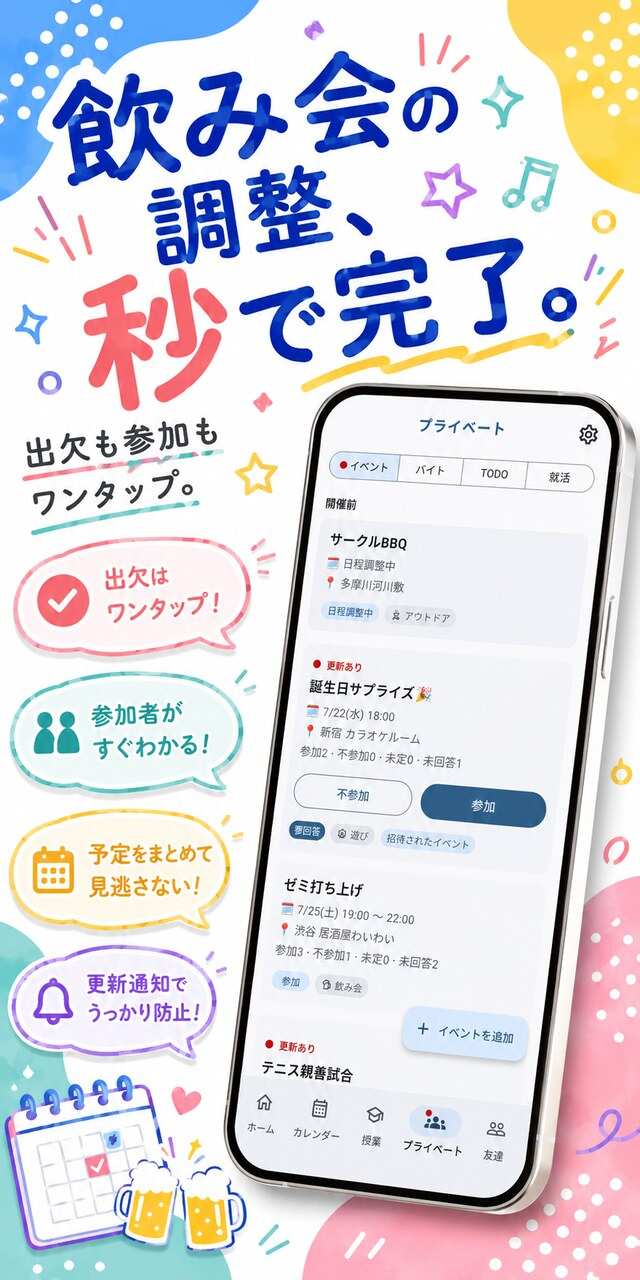
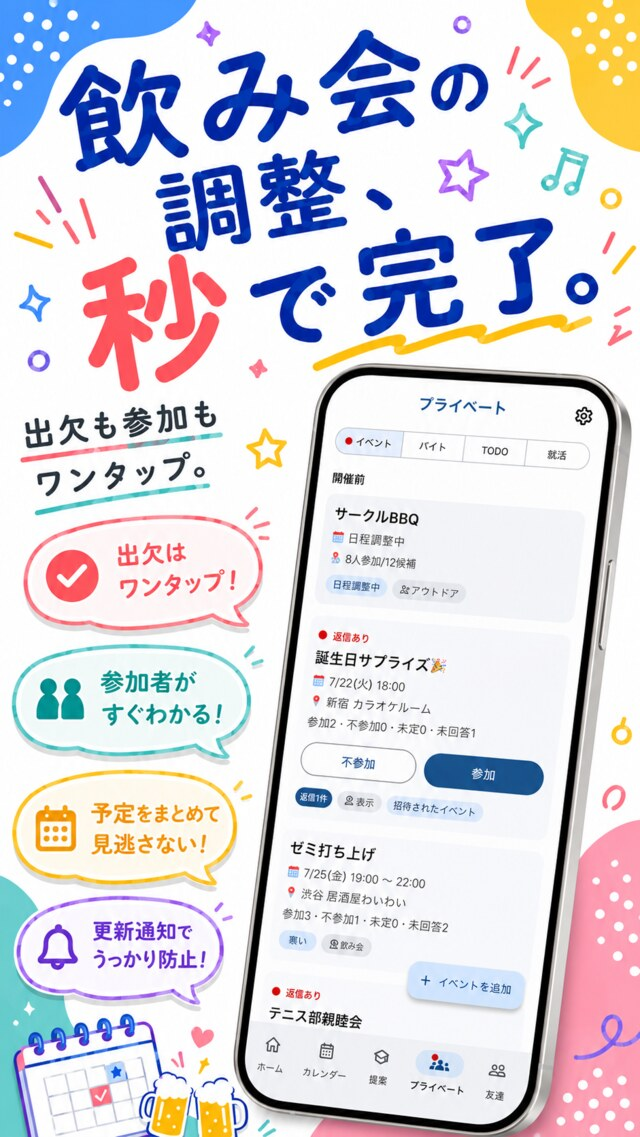
ちょい差し替え

diff --git a/apps/mio/index.html b/apps/mio/index.html
@@ -35,7 +35,9 @@
     <!--
       MIO のランディングページ（アプリのホームページとして OAuth 同意画面等に登録するページ）。
       ・プライバシーポリシーへのリンクはヘッダー / 本文 / フッターに明示的に設置すること（審査要件）。
-      ・img/poster-01〜14.jpg は装飾済みストア用ポスター（ヒーロー/機能/ギャラリーで使用）。
+      ・img/poster-01〜14.jpg は装飾済みストア用ポスター（ヒーロー/機能セクションで使用）。
+      ・img/shots/*.jpg はスクリーンショットギャラリー用の素画面キャプチャ（装飾なし）。
+        元画像は store/screenshots/source/*.png を長辺960px・JPGに最適化したもの。
         旧仮画像 img/ph-*.svg は未使用（残置）。
       ・シェア用のシンプルなDLページは ./download.html にバックアップとして残してあります。
     -->
@@ -108,10 +110,10 @@
 
           <div class="app-card lp-feature">
             <div class="lp-feature-shot lp-feature-poster">
-              <img src="./img/poster-12.jpg" alt="出欠と卒業単位画面" loading="lazy" />
+              <img src="./img/poster-12.jpg" alt="出欠画面" loading="lazy" />
             </div>
-            <h3>✅ 出欠と卒業単位</h3>
-            <p>出席・欠席・遅刻を記録。出席率も、卒業に必要な単位の達成状況も自動で集計します。</p>
+            <h3>✅ 出欠</h3>
+            <p>出席・欠席・遅刻をワンタップで記録。出席率も「あと何回休める？」もひと目でわかります。</p>
           </div>
 
           <div class="app-card lp-feature">
@@ -137,6 +139,54 @@
             <h3>🧾 割り勘</h3>
             <p>イベントの費用を1円まで自動で精算。誰が誰にいくら払うかもすぐわかります。</p>
           </div>
+
+          <div class="app-card lp-feature">
+            <div class="lp-feature-shot lp-feature-poster">
+              <img src="./img/poster-04.jpg" alt="週間カレンダー画面" loading="lazy" />
+            </div>
+            <h3>🔥 今週の忙しさ</h3>
+            <p>今週の予定・課題・バイトをまとめて表示。週の忙しさがひと目で見わたせます。</p>
+          </div>
+
+          <div class="app-card lp-feature">
+            <div class="lp-feature-shot lp-feature-poster">
+              <img src="./img/poster-14.jpg" alt="日程調整画面" loading="lazy" />
+            </div>
+            <h3>🗳 日程調整</h3>
+            <p>みんなの空いてる日を○×で集めるだけ。いちばん集まれる日が自動でわかります。</p>
+          </div>
+
+          <div class="app-card lp-feature">
+            <div class="lp-feature-shot lp-feature-poster">
+              <img src="./img/poster-06.jpg" alt="イベント画面" loading="lazy" />
+            </div>
+            <h3>🎉 飲み会・イベント</h3>
+            <p>飲み会も遊びも、日程・出欠・場所をまとめて調整。幹事の段取りがサクッと片づきます。</p>
+          </div>
+
+          <div class="app-card lp-feature">
+            <div class="lp-feature-shot lp-feature-poster">
+              <img src="./img/poster-08.jpg" alt="卒業単位画面" loading="lazy" />
+            </div>
+            <h3>🎓 卒業単位</h3>
+            <p>取得した単位と、卒業までに足りない単位を自動集計。「卒業やばい」をいつでも確認できます。</p>
+          </div>
+
+          <div class="app-card lp-feature">
+            <div class="lp-feature-shot lp-feature-poster">
+              <img src="./img/poster-09.jpg" alt="就活画面" loading="lazy" />
+            </div>
+            <h3>💼 就活</h3>
+            <p>エントリーした企業と選考状況をまとめて管理。「次いつ面接だっけ」をなくします。</p>
+          </div>
+
+          <div class="app-card lp-feature">
+            <div class="lp-feature-shot lp-feature-poster">
+              <img src="./img/poster-10.jpg" alt="日記画面" loading="lazy" />
+            </div>
+            <h3>📖 日記</h3>
+            <p>今日の気持ちをひとことで記録。ムードだけでも残せる、かんたん日記です。</p>
+          </div>
                 </div>
       </div>
     </section>
@@ -148,13 +198,26 @@
         <p class="section-lead">実際の画面をチェック。横にスワイプできます。</p>
       </div>
       <div class="lp-shots" aria-label="アプリのスクリーンショット一覧">
-        <img src="./img/poster-02.jpg" alt="ホーム画面" loading="lazy" />
-        <img src="./img/poster-04.jpg" alt="週間カレンダー画面" loading="lazy" />
-        <img src="./img/poster-06.jpg" alt="イベント画面" loading="lazy" />
-        <img src="./img/poster-08.jpg" alt="卒業単位画面" loading="lazy" />
-        <img src="./img/poster-09.jpg" alt="就活画面" loading="lazy" />
-        <img src="./img/poster-10.jpg" alt="日記画面" loading="lazy" />
-        <img src="./img/poster-14.jpg" alt="日程調整画面" loading="lazy" />
+        <img src="./img/shots/01_current.jpg" alt="ホーム画面" loading="lazy" />
+        <img src="./img/shots/02_calendar.jpg" alt="月間カレンダー画面" loading="lazy" />
+        <img src="./img/shots/03_calendar_week.jpg" alt="週間カレンダー画面" loading="lazy" />
+        <img src="./img/shots/04_calendar_list.jpg" alt="予定リスト画面" loading="lazy" />
+        <img src="./img/shots/05_classes.jpg" alt="時間割画面" loading="lazy" />
+        <img src="./img/shots/06_courses.jpg" alt="出欠・単位画面" loading="lazy" />
+        <img src="./img/shots/07_assignments.jpg" alt="課題画面" loading="lazy" />
+        <img src="./img/shots/08_exams.jpg" alt="試験画面" loading="lazy" />
+        <img src="./img/shots/09_credits.jpg" alt="卒業単位画面" loading="lazy" />
+        <img src="./img/shots/11_private.jpg" alt="イベント一覧画面" loading="lazy" />
+        <img src="./img/shots/12_baito.jpg" alt="バイト画面" loading="lazy" />
+        <img src="./img/shots/13_todo.jpg" alt="TODO画面" loading="lazy" />
+        <img src="./img/shots/14_shukatsu.jpg" alt="就活画面" loading="lazy" />
+        <img src="./img/shots/15_event_datecoord.jpg" alt="日程調整画面" loading="lazy" />
+        <img src="./img/shots/16_friends.jpg" alt="友達画面" loading="lazy" />
+        <img src="./img/shots/17_friend_list.jpg" alt="友達一覧画面" loading="lazy" />
+        <img src="./img/shots/18_circle_detail.jpg" alt="サークル画面" loading="lazy" />
+        <img src="./img/shots/22_events_past.jpg" alt="イベント履歴画面" loading="lazy" />
+        <img src="./img/shots/23_warikan.jpg" alt="割り勘画面" loading="lazy" />
+        <img src="./img/shots/24_diary.jpg" alt="日記画面" loading="lazy" />
       </div>
     </section>
 